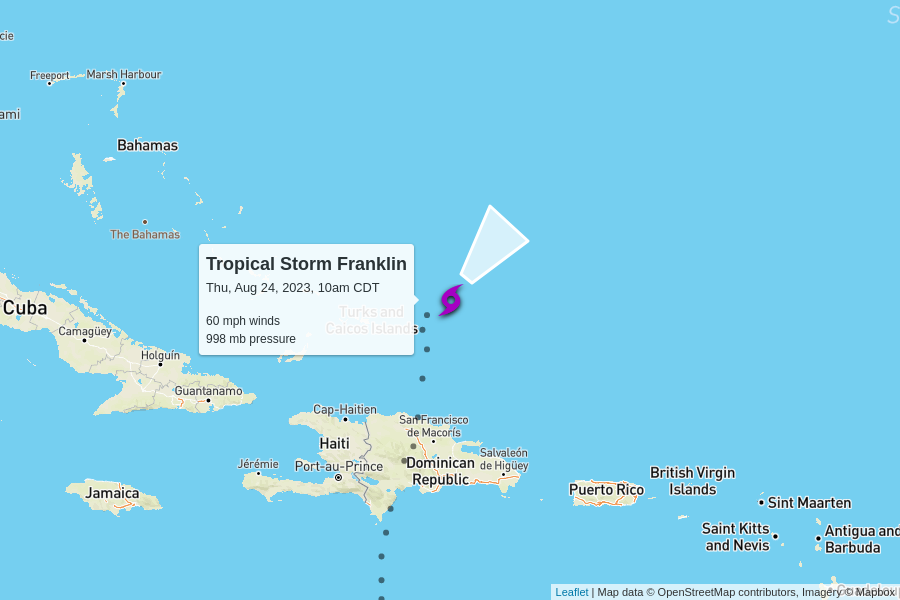
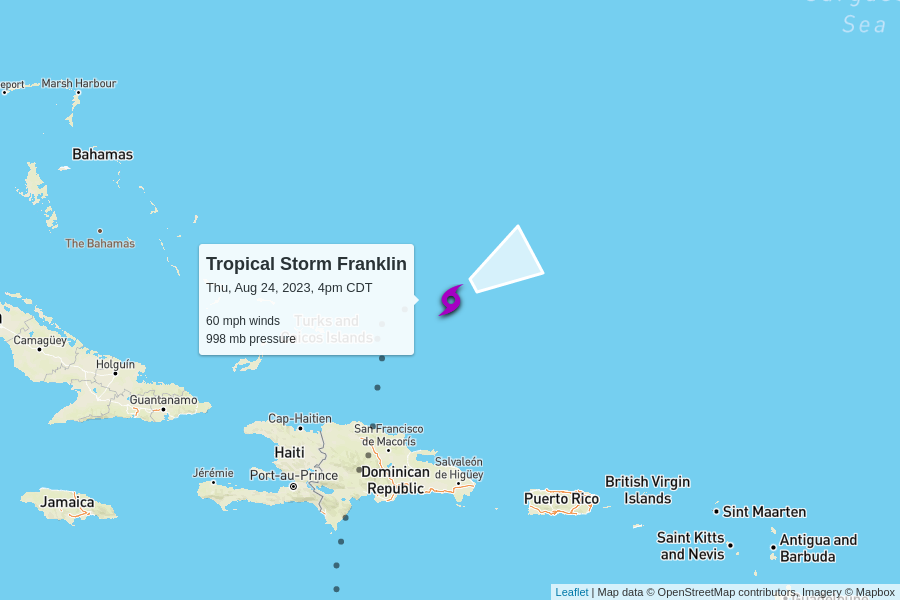
automatic update

diff --git a/docs/index.html b/docs/index.html
@@ -100,7 +100,7 @@
         <td colspan="6" class="storm category-0" >
           <h2>
             Tropical Storm Franklin
-            <p class="updated">last updated <span data-time>2023-08-24T15:00:00.000Z</span></p>
+            <p class="updated">last updated <span data-time>2023-08-24T21:00:00.000Z</span></p>
           </h2>
         </td>
       </tr>
@@ -118,9 +118,9 @@
         <td>60 mph</td>
         <td>998 mb</td>
         <td>
-          7 mph to the northeast
+          8 mph to the east-northeast
           <br/>
-          <span style="display: inline-block; font-size: 1.5em; transform: rotate(40deg);">↑</span>
+          <span style="display: inline-block; font-size: 1.5em; transform: rotate(60deg);">↑</span>
         </td>
         <td><a href="https://raw.githubusercontent.com/mgwalker/atlantic-hurricanes/main/data/csv/AL082023.csv">AL082023.csv</a></td>
         <td><a href="https://www.nhc.noaa.gov/archive/2023/FRANKLIN.shtml?">NHC advisories</a></td>
